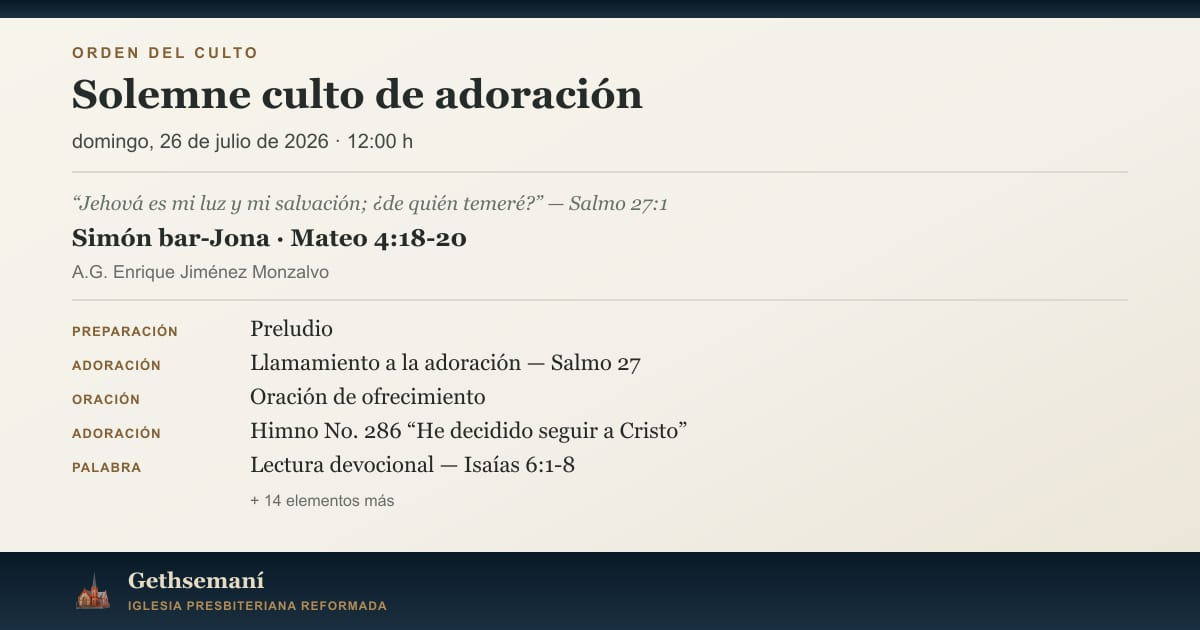
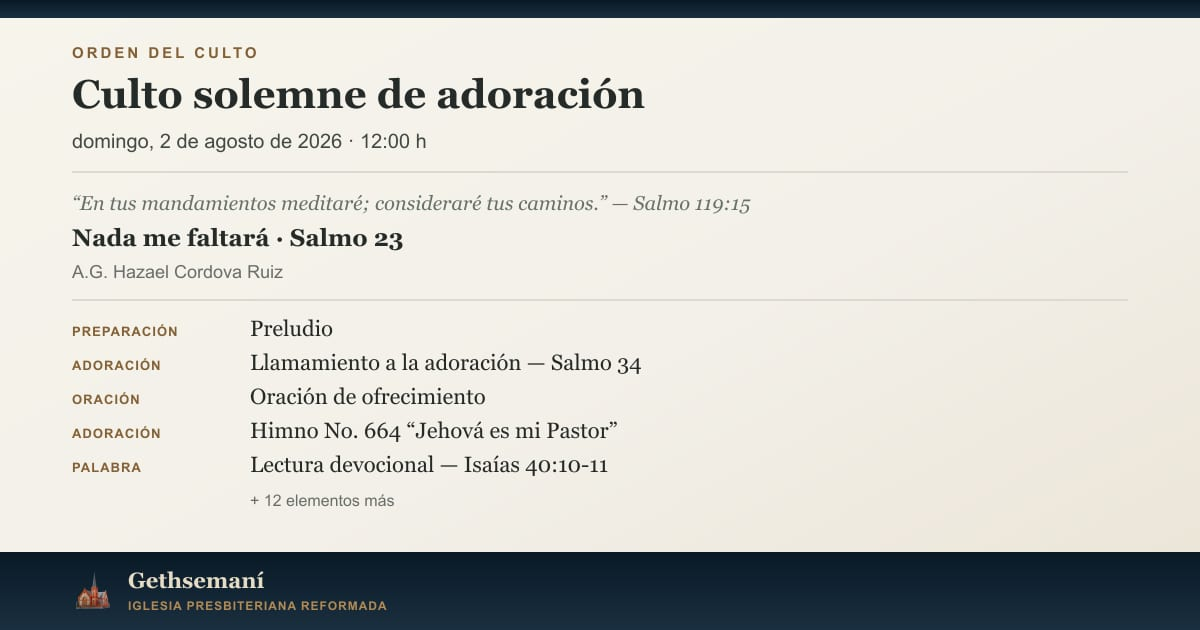
Update new services

diff --git a/src/data/youtube.ts b/src/data/youtube.ts
@@ -7,6 +7,12 @@ export interface ChannelVideo {
 
 export const regularVideos: ChannelVideo[] = [
   {
+    title: 'Simón bar-Jona',
+    url: 'https://www.youtube.com/watch?v=r04o3Rq9DDs',
+    label: 'Sermón',
+    detail: 'Mateo 4:18-20 · A.G. Enrique Jiménez Monzalvo',
+  },
+  {
     title: 'La murmuración',
     url: 'https://www.youtube.com/watch?v=O1HHTV9ncFs',
     label: 'Estudio bíblico',
@@ -69,13 +75,13 @@ export const regularVideos: ChannelVideo[] = [
 
 export const latestLiveVideo: ChannelVideo = {
   title: 'Solemne Culto de Adoración',
-  url: 'https://www.youtube.com/watch?v=yBbQsGKjouQ',
+  url: 'https://www.youtube.com/watch?v=9BZq-_POIkY',
   label: 'Última transmisión',
-  detail: '19 de julio de 2026',
+  detail: '26 de julio de 2026',
 };
 
 export const latestShortVideo: ChannelVideo = {
-  title: 'Invitación a la Escuela Bíblica de Vacaciones',
-  url: 'https://www.youtube.com/shorts/xD-5DBRUq74',
+  title: 'El verdadero arrepentimiento',
+  url: 'https://www.youtube.com/shorts/Fn95ip6WC1Q',
   label: 'Último Short',
 };

diff --git a/src/content/reflections/que-es-la-biblia.md b/src/content/reflections/que-es-la-biblia.md
@@ -1,0 +1,47 @@
+---
+title: ¿Qué es la Biblia?
+date: 2026-08-02T12:00:00-06:00
+description: 'La Biblia reúne sesenta y seis libros escritos a lo largo de siglos, pero cuenta una sola historia: el plan soberano de Dios para salvar a su pueblo.'
+author: María José Rivera
+published: true
+---
+
+¿Alguna vez te has preguntado por qué la Biblia es un libro tan particular que ha perdurado a lo largo de los siglos?
+
+De hecho, no solo ha sobrevivido al paso del tiempo, sino que además es el libro más vendido de la historia. Es imposible saber con exactitud cuántos ejemplares se han entregado a lo largo del tiempo, pero se estima que fueron entre cinco y siete mil millones de copias en el último medio siglo. El Guinness World Records asegura que solo en el año 2021 se superaron los cien millones de ejemplares vendidos.
+
+Si tienes poco tiempo cerca de la Biblia, es posible que no estés de acuerdo con todo lo que dice, pero tienes que reconocer que hay algo en ella que la hace diferente y especial. Nunca pasa de moda. Filosofías nuevas surgieron y desaparecieron en el camino, pero la Biblia sigue siendo aquel libro del que millones de personas declaran que transformó sus vidas para siempre.
+
+## El libro de libros
+
+La Biblia en realidad no es un solo libro, sino una compilación de varios. De hecho, su nombre proviene del griego *biblion*, que significa «conjunto de libros».
+
+Está compuesta por sesenta y seis libros diferentes, los cuales están agrupados en dos grandes secciones. La primera sección se llama Antiguo Testamento y contiene treinta y nueve libros, mientras que la segunda es el Nuevo Testamento y tiene veintisiete libros. El evento que divide ambas secciones es la llegada de Jesús al mundo, la cual es relatada en los cuatro evangelios.
+
+Uno de los aspectos que más llama mi atención sobre la Biblia es que los sesenta y seis libros fueron escritos a lo largo de 1500 años. Se identifica a Moisés como el autor más antiguo de la Biblia y a quien se le atribuye la escritura de los primeros cinco libros conocidos como el Pentateuco, alrededor del año 1400 a. C. Por otra parte, el autor más reciente de la historia bíblica fue un discípulo de Jesús llamado Juan. Él escribió el último libro, Apocalipsis, alrededor del año 100 d. C.
+
+Entre Moisés y Juan hay más de mil años de diferencia y más de cuarenta autores, entre los que se encuentran pastores de ovejas, reyes, pescadores, un recaudador de impuestos, un médico y hasta un agricultor. No solo sus profesiones fueron diversas, sino que vivían en lugares muy diferentes y atravesaban realidades y situaciones muy distintas.
+
+También tiene una gran variedad de géneros literarios. En la Biblia puedes encontrar narraciones históricas, poesía, leyes, profecías, cartas, tablas genealógicas y compilaciones de dichos y proverbios.
+
+Los autores que escribieron el Antiguo Testamento utilizaron el idioma hebreo, salvo por unos fragmentos que se escribieron en arameo. Mientras tanto, el Nuevo Testamento está escrito en su totalidad en griego, pues para ese entonces Alejandro Magno había helenizado gran parte del mundo conocido y el idioma griego se transformó en la lengua para el comercio y las relaciones internacionales.
+
+## Una historia y un autor
+
+Ya te mencioné que no fue un solo autor quien escribió toda la Biblia, sino que fueron más de cuarenta personas las que escribieron a lo largo de 1500 años.
+
+Ahora va la sorpresa más grande: los sesenta y seis libros hablan de un mismo tema. Todos son congruentes entre sí. **La Biblia cuenta una sola historia desde el primero al último libro; desde Génesis hasta Apocalipsis.**
+
+¿De qué trata esta gran historia? De cómo los seres humanos decidieron desobedecer a Dios y cómo Él llevó a cabo Su plan eterno y soberano para salvar a Su pueblo de sus pecados. Dios revela este plan de salvación de forma progresiva, a lo largo de toda la historia bíblica. Los mismos autores van entendiendo de a poco las obras y promesas de Dios.
+
+Allí radica lo maravilloso de la Biblia. Los autores intentaban averiguar en qué tiempo y en qué persona se cumplirían las promesas de salvación (1 P 1:10), pero no podían ver el cuadro completo debido a su temporalidad y pequeñez humana. Solo entendían lo que ellos mismos estaban escribiendo y ponían su confianza en lo que Dios les prometía con respecto a Su plan redentor y el futuro.
+
+Si alguna vez has escrito un trabajo en grupo, donde cada uno es responsable por desarrollar una parte, sabes que es muy difícil hacer algo coherente si cada integrante no sabe el propósito general del trabajo ni lo que los demás están escribiendo. Alguien tendrá que revisar todo y editarlo de manera que pueda darle unidad al escrito. Puedes extrapolar este ejemplo a la Biblia. Su composición es imposible en términos humanos, a menos que sea sobrenatural; mejor dicho, divina.
+
+Cuando vemos la Biblia de forma panorámica podemos ver una mano que dirigió todo el proceso, como si fuera un editor que guió a los autores a lo largo de esos 1500 años para que cada uno escriba un mensaje específico para su tiempo y que mantuviera la unidad con el resto. Ese fue Dios mismo. Los autores fueron inspirados por Su Espíritu Santo (2 Ti 3:16).
+
+El plan de salvación que Dios nos ha dejado en las páginas de la Biblia nos habla de quién y cómo es Él, cómo salvaría en Su Hijo a quienes ha elegido como pueblo Suyo y cómo los llama a vivir como sal y luz en el mundo.
+
+**Dios no es un Dios mudo. Él dejó Su plan por escrito, lo ha preservado a lo largo de los siglos y lo mantiene vigente hasta la fecha. Esa es la Biblia.**
+
+*Artículo de [María José Rivera, publicado por Coalición por el Evangelio](https://www.coalicionporelevangelio.org/articulo/que-es-la-biblia/).*

diff --git a/src/content/service-orders/2026-08-02-culto-12.md b/src/content/service-orders/2026-08-02-culto-12.md
@@ -1,0 +1,53 @@
+---
+title: Culto solemne de adoración
+date: 2026-08-02T12:00:00-06:00
+time: "12:00"
+location: Templo Gethsemaní
+theme: “En tus mandamientos meditaré; consideraré tus caminos.” — Salmo 119:15
+sermonTitle: Nada me faltará
+sermonPassage: Salmo 23
+preacher: A.G. Hazael Cordova Ruiz
+published: true
+elements:
+  - label: Preparación
+    title: Preludio
+  - label: Adoración
+    title: Llamamiento a la adoración
+    detail: Salmo 34
+  - label: Oración
+    title: Oración de ofrecimiento
+  - label: Adoración
+    title: Himno No. 664 “Jehová es mi Pastor”
+  - label: Palabra
+    title: Lectura devocional
+    detail: Isaías 40:10-11
+  - label: Adoración
+    title: Himno No. 74 “¡Cuán grande es Él!”
+  - label: Comunidad
+    title: Saludos, bienvenida y oración de intercesión
+  - label: Adoración
+    title: Himno No. 327 “Tuyo soy Jesús”
+  - label: Palabra
+    title: Lectura bíblica
+    detail: Salmo 23
+  - label: Palabra
+    title: Mensaje “Nada me faltará”
+    detail: A.G. Hazael Cordova Ruiz
+  - label: Respuesta
+    title: Himno de confirmación No. 322 “Eres mi protector”
+  - label: Ofrendas
+    title: Himno No. 444 “Traed los diezmos”
+  - label: Ofrendas
+    title: Consagración de ofrendas y diezmos
+    detail: 2 Corintios 9:7
+  - label: Comunidad
+    title: Avisos
+  - label: Envío
+    title: Bendición
+    detail: Mateo 6:9-13
+  - label: Envío
+    title: Doxología No. 579 “Pastor te bendigo”
+  - label: Dirección
+    title: A.G. Efrén Haro Hernández
+---
+

diff --git a/src/content/service-orders/2026-08-02-culto-vespertino.md b/src/content/service-orders/2026-08-02-culto-vespertino.md
@@ -1,0 +1,46 @@
+---
+title: Culto solemne de adoración
+date: 2026-08-02T18:00:00-06:00
+time: "18:00"
+location: Templo Gethsemaní
+sermonTitle: El Señor del tiempo
+sermonPassage: Eclesiastés 3:1-8
+preacher: A.G. Hazael Cordova Ruiz
+published: true
+elements:
+  - label: Preparación
+    title: Preludio
+  - label: Adoración
+    title: Llamamiento a la adoración
+    detail: Salmo 90
+  - label: Oración
+    title: Oración de ofrecimiento
+  - label: Adoración
+    title: Himno No. 2 “A Dios sea la gloria”
+  - label: Palabra
+    title: Lectura devocional
+    detail: Daniel 2:20-22
+  - label: Oración
+    title: Momentos de oración
+  - label: Adoración
+    title: Tiempo de alabanza
+    detail: Tres himnos a elegir
+  - label: Palabra
+    title: Lectura bíblica
+    detail: Eclesiastés 3:1-8
+  - label: Palabra
+    title: Mensaje “El Señor del tiempo”
+    detail: A.G. Hazael Cordova Ruiz
+  - label: Ofrendas
+    title: Himno No. 444 “Traed los diezmos”
+  - label: Comunidad
+    title: Avisos
+  - label: Envío
+    title: Bendición
+    detail: Mateo 6:9-13
+  - label: Envío
+    title: Doxología No. 579 “Pastor te bendigo”
+  - label: Dirección
+    title: A.G. Efrén Haro Hernández
+---
+

diff --git a/src/content/service-orders/2026-08-02-escuela-dominical.md b/src/content/service-orders/2026-08-02-escuela-dominical.md
@@ -1,0 +1,38 @@
+---
+title: Escuela Dominical Superior “Antioquía”
+date: 2026-08-02T10:30:00-06:00
+time: "10:30"
+location: Templo Gethsemaní
+theme: Introducción a los evangelios
+sermonTitle: Clase 26 “Evangelio de Juan”, capítulo 16
+sermonPassage: Isaías 53:10-12
+preacher: Hna. Gladis Hernández Solís
+published: true
+elements:
+  - label: Adoración
+    title: Llamamiento a la adoración
+    detail: Salmo 19
+  - label: Oración
+    title: Oración de ofrecimiento
+  - label: Adoración
+    title: Himno No. 1 “Solo a Dios la gloria”
+  - label: Palabra
+    title: Lectura devocional
+    detail: Santiago 1:2-11
+  - label: Adoración
+    title: Himno No. 263 “Espíritu de Dios llena mi vida”
+  - label: Estudio
+    title: Texto de estudio
+    detail: Isaías 53:10-12
+  - label: Estudio
+    title: Introducción a los evangelios
+    detail: Clase 26 “Evangelio de Juan”, capítulo 16 · Hna. Gladis Hernández Solís
+  - label: Comunidad
+    title: Avisos
+  - label: Envío
+    title: Bendición de la Escuela Dominical
+    detail: 2 Pedro 3:18
+  - label: Dirección
+    title: Damaris Ramírez Arcia
+---
+

diff --git a/src/content/sermons/simon-bar-jona.md b/src/content/sermons/simon-bar-jona.md
@@ -1,0 +1,13 @@
+---
+title: Simón bar-Jona
+date: 2026-07-29
+description: Sermón sobre el llamado de Jesús a Pedro y Andrés.
+passage: Mateo 4:18-20
+preacher: A.G. Enrique Jiménez Monzalvo
+youtubeUrl: https://www.youtube.com/watch?v=r04o3Rq9DDs
+category: sermon
+published: true
+order: -1
+---
+
+Mensaje publicado en el canal oficial de la Iglesia Presbiteriana Reformada Gethsemaní.
